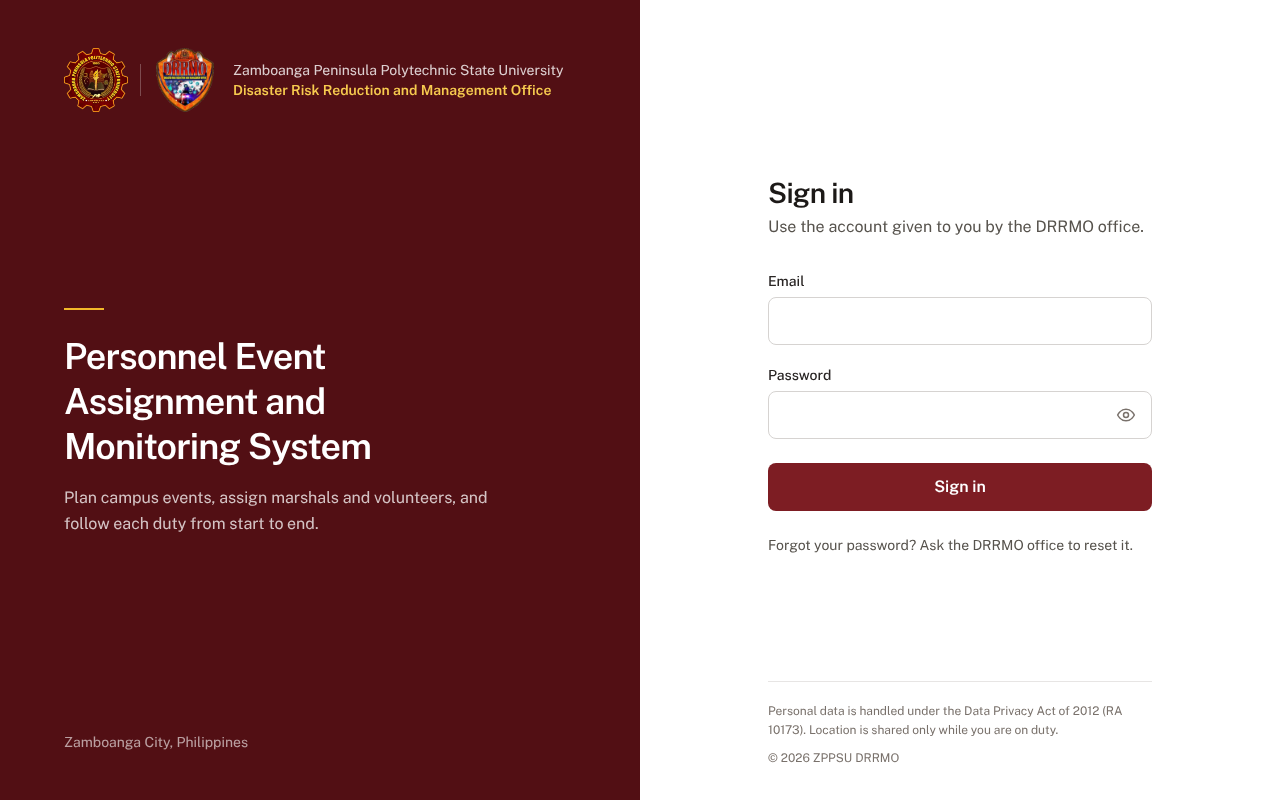
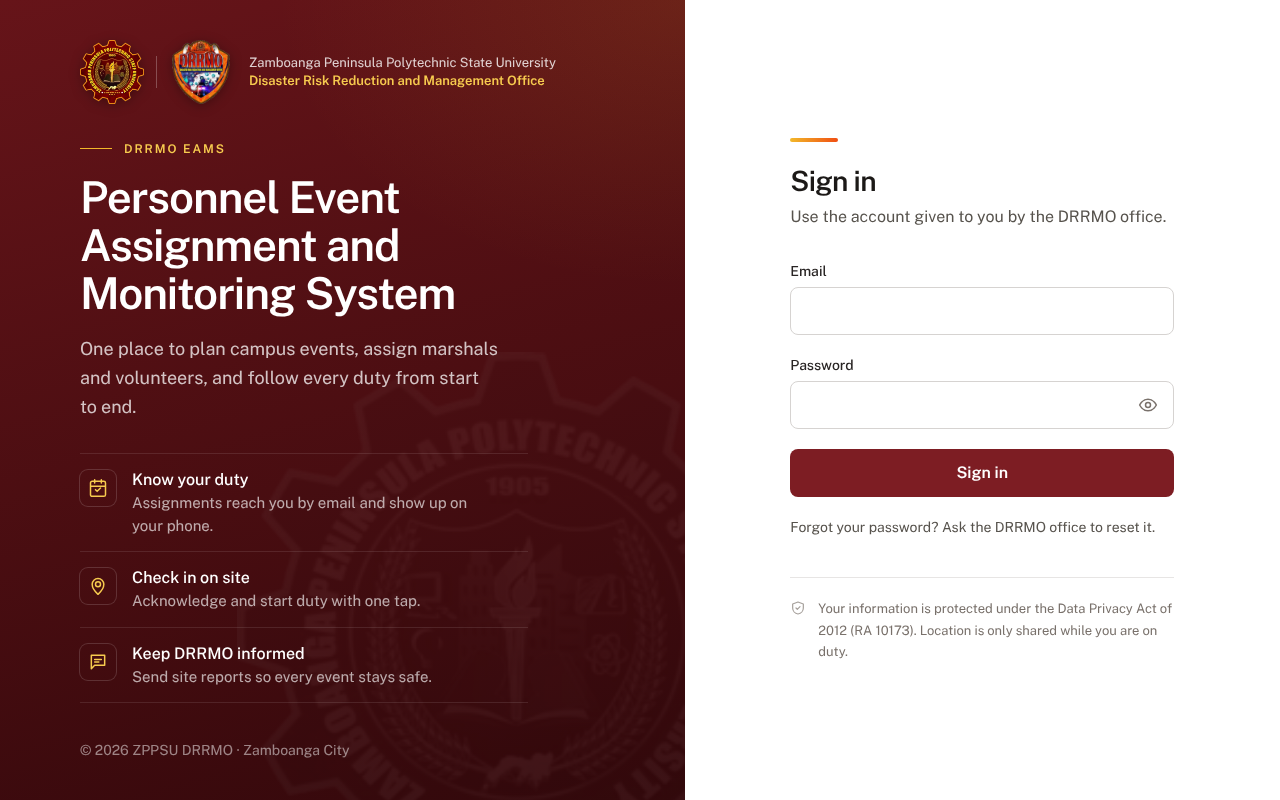
style(core): bring back the first login design and polish it
- keep the maroon brand panel, feature points and mobile sheet
- one soft gradient, lighter gear watermark, no dot pattern or strong glows
- gold rule eyebrow instead of the pill badge
- feature points use hairline dividers and outline icons
- lighter headings, quieter privacy note, smaller corner radius kept
- DESIGN_SYSTEM.md Restraint rules updated to match

diff --git a/resources/js/pages/Login.tsx b/resources/js/pages/Login.tsx
@@ -1,6 +1,6 @@
-// Landing and login screen (M-Login in SCREENS.md). Phone first: slim brand bar, then the form.
-// On wide screens it splits into a maroon brand column on the left and the form on the right.
-import { useState, type FormEvent } from 'react';
+// Landing and login screen (M-Login in SCREENS.md). Phone first: brand header, then the form.
+// On wide screens it splits into a brand panel on the left and the form on the right.
+import { useState, type FormEvent, type ReactNode } from 'react';
 import { Navigate, useNavigate } from 'react-router';
 import { useAuthActions, useMe } from '@/app/auth';
 import { ApiError } from '@/shared/api/client';
@@ -18,46 +18,108 @@ function messageFor(error: unknown): string {
     return 'Something went wrong. Check your connection and try again.';
 }
 
+const highlights: { title: string; text: string; icon: ReactNode }[] = [
+    {
+        title: 'Know your duty',
+        text: 'Assignments reach you by email and show up on your phone.',
+        icon: (
+            <path d="M8 2v4M16 2v4M3 10h18M5 4h14a2 2 0 0 1 2 2v14a2 2 0 0 1-2 2H5a2 2 0 0 1-2-2V6a2 2 0 0 1 2-2Zm4 10 2 2 4-4" />
+        ),
+    },
+    {
+        title: 'Check in on site',
+        text: 'Acknowledge and start duty with one tap.',
+        icon: (
+            <path d="M12 22s7-6.2 7-12a7 7 0 1 0-14 0c0 5.8 7 12 7 12Zm0-9a3 3 0 1 0 0-6 3 3 0 0 0 0 6Z" />
+        ),
+    },
+    {
+        title: 'Keep DRRMO informed',
+        text: 'Send site reports so every event stays safe.',
+        icon: <path d="M4 4h16v12H8l-4 4V4Zm4 5h8M8 12h5" />,
+    },
+];
+
 const year = new Date().getFullYear();
 
-// Logos and office names. On phones this is a slim header bar; on desktop it fills the left column.
 function BrandPanel() {
     return (
-        <section aria-label="ZPPSU DRRMO" className="on-dark bg-maroon-900 text-white lg:flex">
-            <div className="mx-auto flex w-full max-w-md flex-col items-center gap-3 px-6 py-6 text-center sm:max-w-lg lg:max-w-none lg:items-start lg:justify-between lg:gap-0 lg:px-14 lg:py-12 lg:text-left xl:px-16">
-                <div className="flex shrink-0 items-center gap-4">
-                    <BrandLogos size="md" className="shrink-0 text-white lg:[&_img]:size-16" />
-                    <div className="hidden leading-snug lg:block">
-                        <p className="text-sm text-white/80">
+        <section
+            aria-label="About the system"
+            className="on-dark relative isolate overflow-hidden bg-maroon-900 text-white"
+        >
+            {/* Background: a quiet maroon gradient with the ZPPSU gear as a faint watermark on desktop. */}
+            <div
+                aria-hidden="true"
+                className="absolute inset-0 -z-10 bg-[radial-gradient(100%_60%_at_100%_0%,rgb(242_184_42/0.10),transparent_60%),linear-gradient(165deg,var(--color-maroon-800),var(--color-maroon-950))]"
+            />
+            <img
+                src="/images/brand/zppsu-logo.webp"
+                alt=""
+                aria-hidden="true"
+                className="pointer-events-none absolute -right-28 -bottom-28 -z-10 hidden w-[560px] opacity-[0.05] grayscale lg:block"
+            />
+
+            <div className="mx-auto flex h-full max-w-xl flex-col px-6 pt-8 pb-14 sm:px-10 lg:max-w-none lg:px-14 lg:py-10 xl:px-20">
+                <header className="flex items-center gap-4">
+                    <BrandLogos
+                        size="md"
+                        className="shrink-0 text-white [&_img]:drop-shadow-[0_2px_6px_rgb(0_0_0/0.3)] lg:[&_img]:size-16"
+                    />
+                    <div className="min-w-0 leading-tight">
+                        <p className="text-[0.8125rem] text-white/80">
                             Zamboanga Peninsula Polytechnic State University
                         </p>
-                        <p className="text-sm font-semibold text-gold-300">
+                        <p className="mt-0.5 text-[0.8125rem] font-semibold text-gold-300">
                             Disaster Risk Reduction and Management Office
                         </p>
                     </div>
-                </div>
+                </header>
 
-                <div className="leading-snug lg:hidden">
-                    <p className="text-xs text-white/80">
-                        Zamboanga Peninsula Polytechnic State University
+                <div className="mt-8 lg:my-auto lg:max-w-xl lg:py-8">
+                    <p className="flex items-center gap-3 text-xs font-semibold tracking-[0.16em] text-gold-300 uppercase">
+                        <span className="h-px w-8 bg-gold-400" aria-hidden="true" />
+                        DRRMO EAMS
                     </p>
-                    <p className="text-xs font-semibold text-gold-300">
-                        Disaster Risk Reduction and Management Office
-                    </p>
-                </div>
-
-                <div className="hidden max-w-md lg:block">
-                    <div className="h-0.5 w-10 bg-gold-400" aria-hidden="true" />
-                    <p className="mt-6 text-4xl leading-tight font-semibold tracking-tight text-balance">
+                    <h2 className="mt-4 text-[1.625rem] leading-[1.15] font-semibold tracking-tight text-balance sm:text-4xl lg:text-[2.5rem] lg:leading-[1.1] xl:text-[2.75rem]">
                         Personnel Event Assignment and Monitoring System
+                    </h2>
+                    <p className="mt-4 hidden max-w-md text-lg leading-relaxed text-pretty text-white/75 sm:block">
+                        One place to plan campus events, assign marshals and volunteers, and follow
+                        every duty from start to end.
                     </p>
-                    <p className="mt-4 text-base leading-relaxed text-pretty text-white/75">
-                        Plan campus events, assign marshals and volunteers, and follow each duty
-                        from start to end.
-                    </p>
+
+                    <ul className="mt-8 hidden max-w-md divide-y divide-white/10 border-y border-white/10 lg:block">
+                        {highlights.map((item) => (
+                            <li key={item.title} className="flex gap-4 py-3.5">
+                                <span className="mt-0.5 flex size-9 shrink-0 items-center justify-center rounded-lg text-gold-300 ring-1 ring-white/15">
+                                    <svg
+                                        viewBox="0 0 24 24"
+                                        className="size-5"
+                                        fill="none"
+                                        stroke="currentColor"
+                                        strokeWidth="1.8"
+                                        strokeLinecap="round"
+                                        strokeLinejoin="round"
+                                        aria-hidden="true"
+                                    >
+                                        {item.icon}
+                                    </svg>
+                                </span>
+                                <span>
+                                    <span className="block font-medium">{item.title}</span>
+                                    <span className="block text-[0.9375rem] text-pretty text-white/65">
+                                        {item.text}
+                                    </span>
+                                </span>
+                            </li>
+                        ))}
+                    </ul>
                 </div>
 
-                <p className="hidden text-sm text-white/60 lg:block">Zamboanga City, Philippines</p>
+                <p className="hidden text-sm text-white/50 lg:block">
+                    © {year} ZPPSU DRRMO · Zamboanga City
+                </p>
             </div>
         </section>
     );
@@ -89,18 +151,16 @@ export function Login() {
     }
 
     return (
-        <div className="flex min-h-dvh flex-col bg-white lg:grid lg:grid-cols-[minmax(0,1fr)_minmax(0,1fr)]">
+        <div className="min-h-dvh bg-white lg:grid lg:grid-cols-[minmax(0,1.15fr)_minmax(0,1fr)]">
             <BrandPanel />
 
-            <main className="flex flex-1 flex-col px-6 pt-10 pb-8 sm:px-10 lg:px-14 lg:pt-12">
-                <div className="mx-auto mb-12 w-full max-w-md lg:my-auto lg:max-w-sm">
-                    <p className="mb-2 text-sm font-semibold text-maroon-700 lg:hidden">
-                        Personnel Event Assignment and Monitoring System
-                    </p>
-                    <h1 className="text-2xl font-semibold tracking-tight text-stone-900 lg:text-[1.75rem]">
+            <main className="relative -mt-5 rounded-t-[1.25rem] bg-white px-6 pt-8 pb-10 sm:px-10 lg:mt-0 lg:flex lg:flex-col lg:rounded-none lg:px-14 lg:py-12">
+                <div className="mx-auto w-full max-w-sm sm:max-w-xl lg:my-auto lg:max-w-sm">
+                    <div className="brand-stripe h-1 w-12 rounded-full" aria-hidden="true" />
+                    <h1 className="mt-5 text-2xl font-semibold tracking-tight text-stone-900 sm:text-[1.75rem]">
                         Sign in
                     </h1>
-                    <p className="mt-1 text-pretty text-stone-600">
+                    <p className="mt-1.5 text-pretty text-stone-600">
                         Use the account given to you by the DRRMO office.
                     </p>
 
@@ -125,23 +185,39 @@ export function Login() {
 
                         {error && <Alert tone="error">{error}</Alert>}
 
-                        <Button type="submit" block loading={busy} className="mt-1">
+                        <Button type="submit" block loading={busy}>
                             {busy ? 'Signing in...' : 'Sign in'}
                         </Button>
                     </form>
 
-                    <p className="mt-6 text-sm text-pretty text-stone-600">
+                    <p className="mt-5 text-sm text-pretty text-stone-600">
                         Forgot your password? Ask the DRRMO office to reset it.
                     </p>
+
+                    <div className="mt-10 flex gap-3 border-t border-stone-200 pt-5 text-[0.8125rem] leading-relaxed text-stone-500">
+                        <svg
+                            viewBox="0 0 24 24"
+                            className="mt-0.5 size-4 shrink-0 text-stone-400"
+                            fill="none"
+                            stroke="currentColor"
+                            strokeWidth="1.8"
+                            strokeLinecap="round"
+                            strokeLinejoin="round"
+                            aria-hidden="true"
+                        >
+                            <path d="M12 3 4 6v6c0 4.5 3.4 8.3 8 9 4.6-.7 8-4.5 8-9V6l-8-3Z" />
+                            <path d="m9 12 2 2 4-4" />
+                        </svg>
+                        <p>
+                            Your information is protected under the Data Privacy Act of 2012 (RA
+                            10173). Location is only shared while you are on duty.
+                        </p>
+                    </div>
                 </div>
 
-                <footer className="mx-auto mt-auto w-full max-w-md border-t border-stone-200 pt-5 text-xs leading-relaxed text-stone-500 lg:mt-0 lg:max-w-sm">
-                    <p className="text-pretty">
-                        Personal data is handled under the Data Privacy Act of 2012 (RA 10173).
-                        Location is shared only while you are on duty.
-                    </p>
-                    <p className="mt-2">© {year} ZPPSU DRRMO</p>
-                </footer>
+                <p className="mt-10 text-center text-xs text-stone-500 lg:hidden">
+                    © {year} ZPPSU DRRMO · Zamboanga City
+                </p>
             </main>
         </div>
     );

diff --git a/resources/css/app.css b/resources/css/app.css
@@ -57,6 +57,11 @@
     --shadow-raised: 0 10px 30px -10px rgb(51 8 11 / 0.25), 0 4px 10px -4px rgb(28 25 23 / 0.1);
 }
 
+/* The brand stripe: ZPPSU gold into DRRMO orange. One short bar above the main heading, nothing more. */
+@utility brand-stripe {
+    background-image: linear-gradient(90deg, var(--color-gold-400), var(--color-ember-500));
+}
+
 @layer base {
     html {
         -webkit-tap-highlight-color: transparent;

diff --git a/docs/DESIGN_SYSTEM.md b/docs/DESIGN_SYSTEM.md
@@ -13,9 +13,10 @@ Follow docs/DESIGN_SYSTEM.md exactly.
 
 Look and feel: calm, official and trustworthy, like a well run university office.
 Not playful, not flashy. Plenty of white space, one clear main action per screen.
-Flat surfaces only: no gradients, glows, dot or grid patterns, glass effects,
-pill badges, emoji, or rows of icon feature cards. If an element is only there
-to decorate, leave it out.
+Keep decoration quiet. Allowed: one soft maroon gradient on a large brand
+surface, the ZPPSU gear as a faint watermark, a thin gold rule, and the short
+gold to orange brand stripe above a main heading. Not allowed: dot or grid
+patterns, glass effects, neon glows, pill badges, emoji, or filled icon tiles.
 
 Colors: ZPPSU maroon is the brand and the color of primary buttons. Gold is a
 small accent on dark maroon surfaces only. DRRMO orange ("ember") means live or
@@ -48,9 +49,11 @@ The system belongs to two owners, and the design shows both.
 
 The design should look like it was made by an office that takes safety seriously, not like a startup landing page. In practice:
 
-- Solid colors. Maroon surfaces are flat `maroon-900`, with no gradient or texture.
-- One accent at a time. A short 2 px `gold-400` rule above a title on a maroon surface is the only decoration we use.
-- Content over ornament. Say what the system does in one sentence instead of a grid of feature icons.
+- Brand surfaces (only the login brand panel today) may use one soft gradient from `maroon-800` to `maroon-950`, with a faint gold light in one corner. Everything else is solid.
+- The ZPPSU gear may sit behind a brand surface as a watermark at 5% opacity, grayscale, desktop only.
+- The **brand stripe** is a short bar (4 by 48 px) from gold to DRRMO orange. It joins the two offices. Use it once per screen at most, above the main heading.
+- Eyebrow labels on maroon use a thin gold rule and uppercase gold text, never a pill or badge.
+- Lists of points use outline icons in a hairline square, separated by hairlines. No filled tiles.
 - Hierarchy comes from size, weight and spacing, not from boxes, badges and colors.
 - Every screen should still make sense in grayscale.
 
@@ -89,8 +92,8 @@ Use Tailwind classes with these names, for example `bg-maroon-700` or `text-embe
 | `maroon-900` | `#520f14` | Dark surfaces: login brand panel, admin sidebar |
 | `maroon-950` | `#33080b` | Deepest end of gradients |
 | `gold-200` to `gold-300` | `#fbe08e` to `#f7cb4f` | Accent text and icons on dark maroon |
-| `gold-400` | `#f2b82a` | The thin rule above titles on maroon |
-| `ember-500` | `#f04e12` | Live dots and map pins (not for text) |
+| `gold-400` | `#f2b82a` | Thin rules on maroon, start of the brand stripe |
+| `ember-500` | `#f04e12` | End of the brand stripe, live dots, map pins (not for text) |
 | `ember-600` | `#d63a0a` | "On duty" button and banner background (white text passes AA) |
 | `ember-700` | `#b12c0b` | Ember text on white (overdue, late) |
 
@@ -134,7 +137,7 @@ Rules:
 
 | Role | Classes |
 |---|---|
-| Display (login brand column only) | `text-4xl font-semibold leading-tight tracking-tight text-balance` |
+| Display (login brand panel only) | `text-[1.625rem] sm:text-4xl lg:text-[2.75rem] font-semibold tracking-tight text-balance` |
 | Page title | `text-2xl font-semibold tracking-tight text-stone-900` |
 | Section title | `text-lg font-semibold text-stone-900` |
 | Body | `text-base text-stone-700` |
@@ -231,8 +234,8 @@ All in `resources/js/shared/ui`. Add a new shared piece only when two screens ne
 
 ### Login (reference build)
 
-- Phone: a flat maroon header with both logos centered and the two office names under them. Below it, on white: the system name in small maroon text, the "Sign in" title, the form, and a footer with the privacy line.
-- Desktop: two equal columns. The left column is flat maroon with the logos and office names at the top, the system name and one sentence in the middle, and the city at the bottom. The right column holds the form on white, with the footer at the bottom.
+- Phone: a maroon header with both logos, the office names, the "DRRMO EAMS" eyebrow and the system name. A white sheet with rounded top corners slides over it and holds the brand stripe, the "Sign in" title, the form, and a privacy line under a hairline.
+- Desktop: two columns. The left brand panel has the logos and office names at the top, then the eyebrow, system name, one sentence and three points separated by hairlines, with the gear watermark behind. The right side has the form on plain white.
 
 ## 8. States every screen needs
 

diff --git a/docs/capstone/DEV_LOG.md b/docs/capstone/DEV_LOG.md
@@ -69,7 +69,7 @@ One entry per merged story. Format in ../DOCUMENTATION_GUIDE.md section 4.
 ## 2026-11-06 · Design system and the landing and login screen (core)
 - What was built: DESIGN_SYSTEM.md with a ready to paste UI prompt, color and shape tokens in app.css, shared Button, TextField, PasswordField, Alert, Spinner and BrandLogos components, the ZPPSU and DRRMO logos as web assets and favicon, and a redesigned login screen
 - Decision and why: maroon and gold come from the ZPPSU seal and are the base, while the DRRMO orange is kept for live or urgent states only, so the app feels official and urgent things still stand out
-- Decision and why: after the first draft the owner asked for a cleaner, more official look, so gradients, glow effects, the dot pattern, badge and feature icons were removed. Surfaces are flat maroon and white, and hierarchy comes from type and spacing
+- Decision and why: the owner compared a fully flat version with the first draft and kept the first. The final version keeps its layout but drops the dot pattern, strong glows and the badge, so it looks finished without looking busy
 - Decision and why: Public Sans is self hosted instead of loaded from Google Fonts, so the screen works on a weak campus connection and no visitor data goes to a third party
 - Decision and why: there is no self service password reset yet, so the login screen tells people to ask the DRRMO office instead of showing a link that does nothing
 - Evidence: resources/js/shared/ui/ui.test.tsx, Login.test.tsx, figures/m-login.png, figures/m-login-desktop.png

diff --git a/docs/SCREENS.md b/docs/SCREENS.md
@@ -63,7 +63,7 @@ Tap targets at least 48 px. Base font 16 px, high contrast for outdoor use. On s
 
 | Screen | Role | Phone layout | Desktop |
 |---|---|---|---|
-| M-Login | Everyone | Flat maroon header with the ZPPSU and DRRMO logos and office names. Below it: system name, email, password (show and hide), big Sign in button, a line saying the DRRMO office resets forgotten passwords, and a data privacy footer. | Two columns: brand panel left, form right |
+| M-Login | Everyone | Maroon header with the ZPPSU and DRRMO logos, office names and system name. White sheet below with email, password (show and hide), big Sign in button, a line saying the DRRMO office resets forgotten passwords, and a data privacy note. | Two columns: brand panel left, form right |
 | M-Privacy notice and consent | Everyone | Scrollable notice, plain language summary at top, "I agree" button fixed at bottom. | Centered column |
 | M-Location consent | Marshal, Volunteer | Short text with three bullets (when, who sees it, how long kept), Agree and Not now buttons. | Centered column |
 | M-My assignments | Marshal, Volunteer | Tabs Today and Upcoming. Each card: event, time, place, duty type, status chip. Current or next shift pinned on top with its main button (Acknowledge or Start duty). | Two-column cards |
